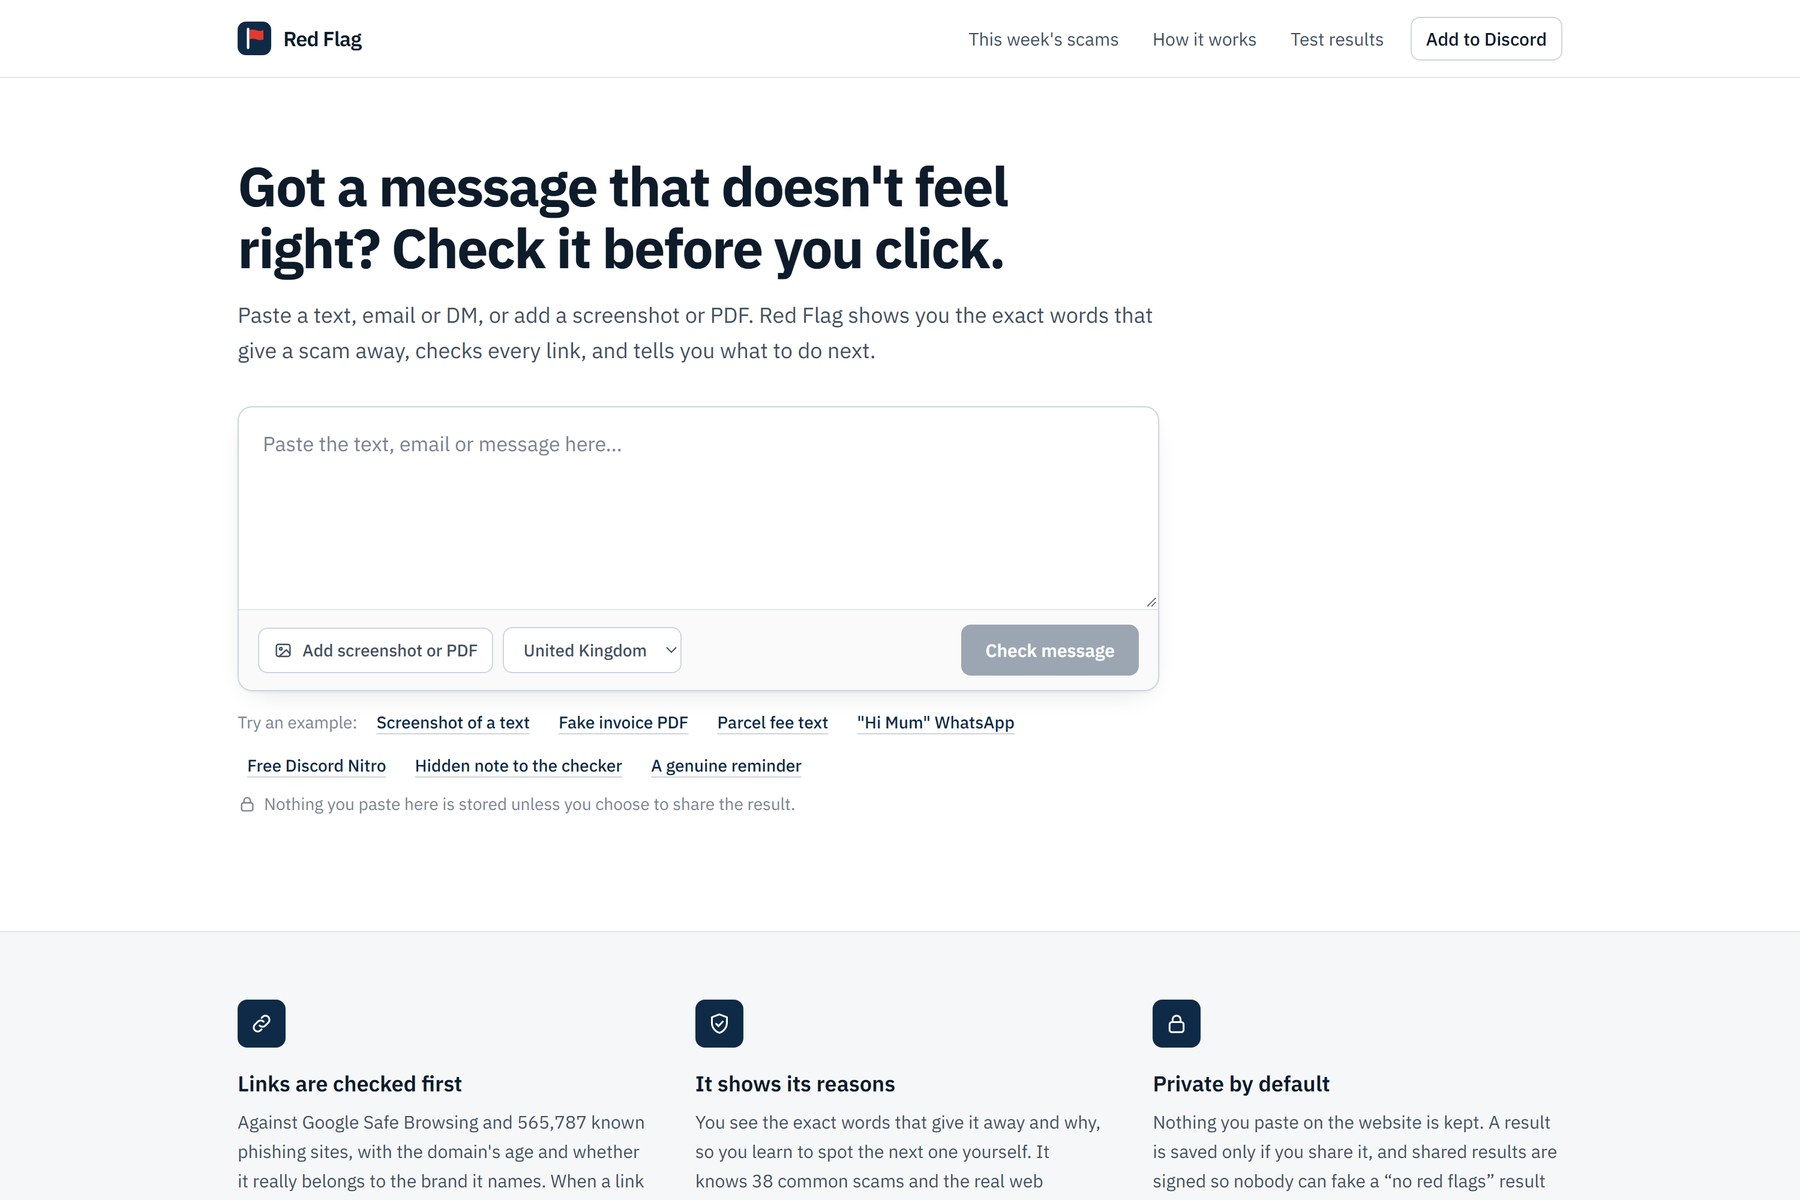
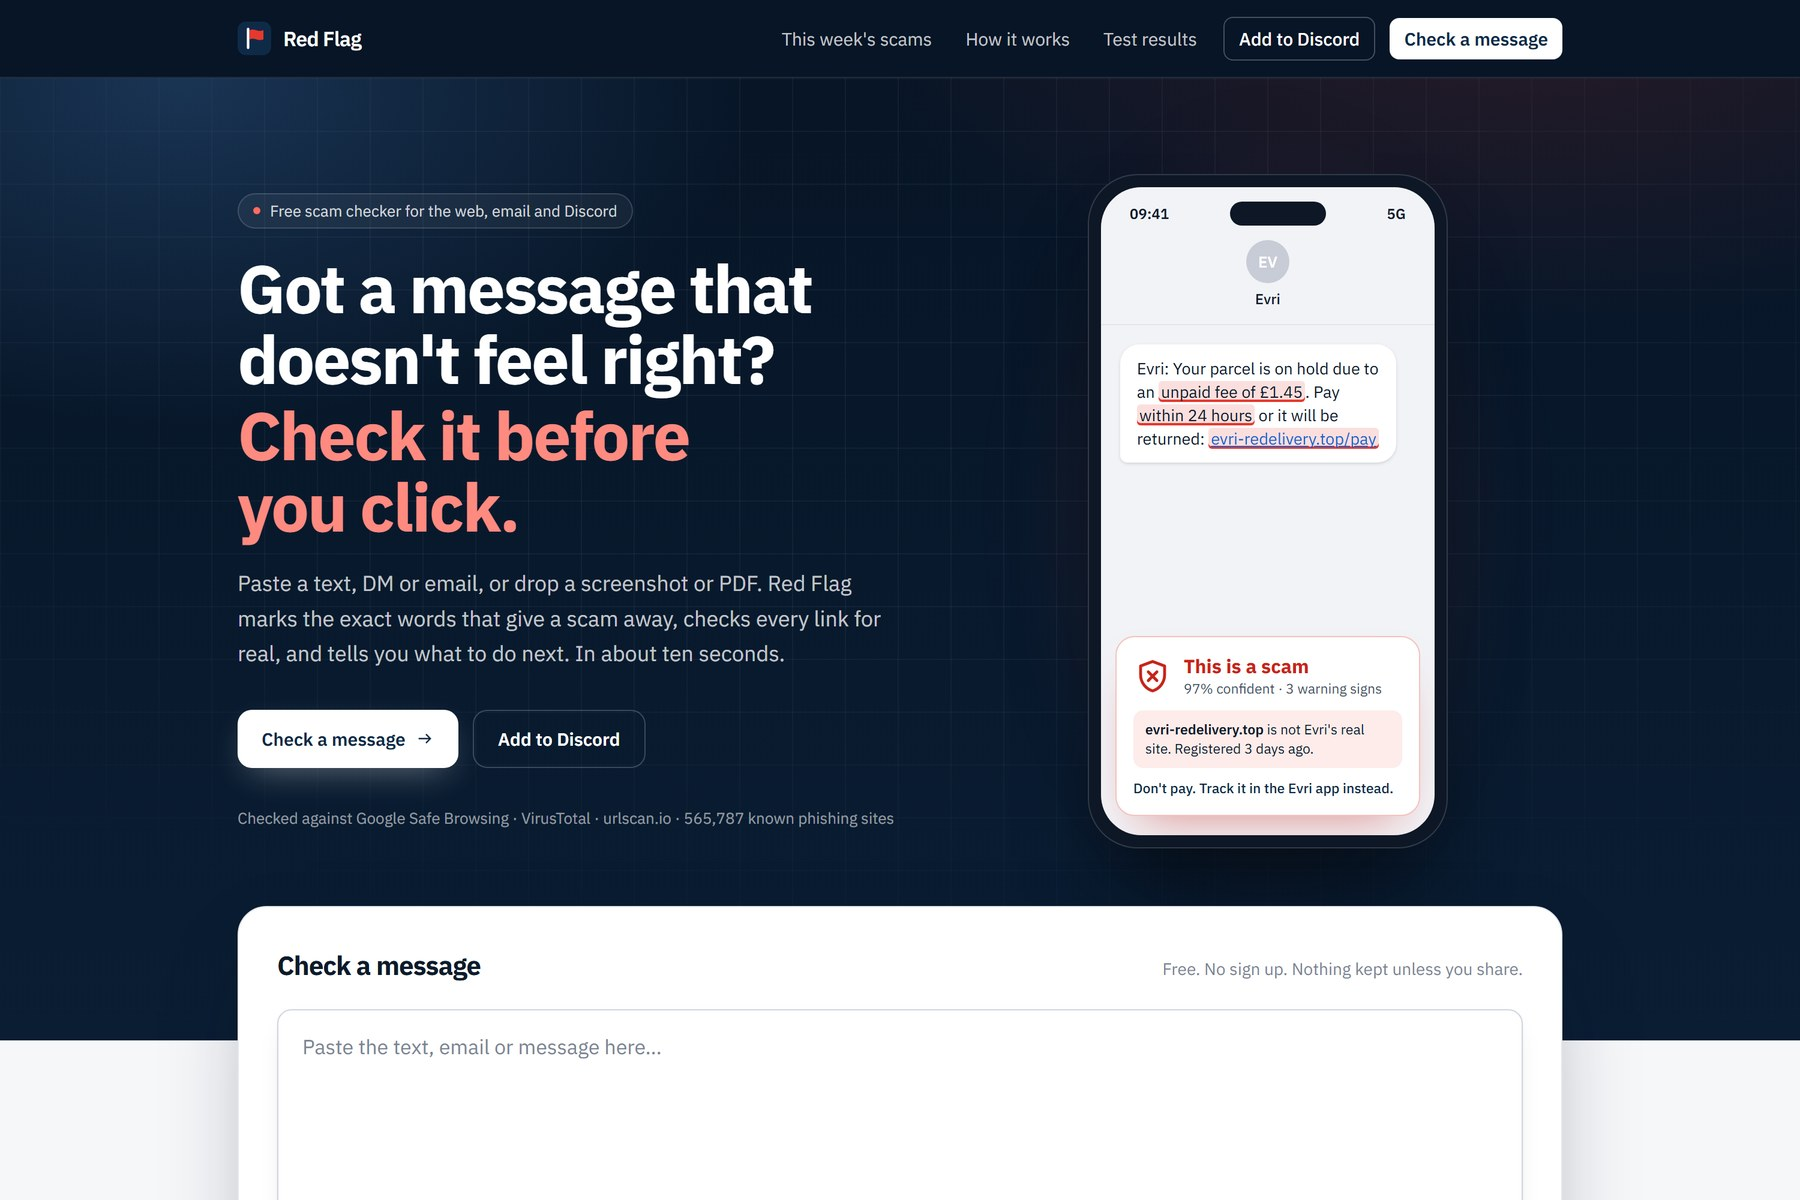
README: new home and tricks screenshots

diff --git a/README.md b/README.md
@@ -53,6 +53,8 @@ Also try the **Fake invoice PDF** and **Screenshot of a text** examples, type a 
 - Anything hidden from you on purpose: invisible text only an AI can read, file names flipped so a program looks like a PDF, brand names split with invisible spaces, and instructions hidden in an email's HTML.
 - What to do now, depending on how far it got (just got it, clicked, typed details, paid, gave a code), with only the reporting channels that fit: 37 official places across 10 countries in the UK, US and EU.
 
+![Tricks Red Flag catches: hidden instructions, QR codes, disguised file names](docs/media/tricks.jpg)
+
 ![A scam verdict with the message marked up and the warning signs listed](docs/media/verdict.jpg)
 
 ![Link checks: blocklist, VirusTotal and a sandbox screenshot of a fake AT&T page](docs/media/link-checks-sandbox.jpg)
